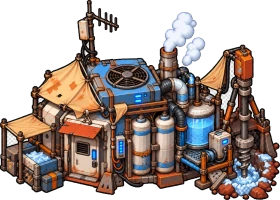
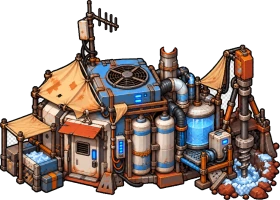
POC: animated steam on oxygen buildings; colonists use the door
- process-buildings.cjs: 'steam' strips the baked-in white smoke (and
  its outline) from a region of the sprite; 'vent' records the chimney
  mouth in meta.json. Applied to the oxygen scrubber and electrolyzer
- Painted buildings puff soft round steam from the vent (grows and fades
  as it rises) instead of square pixel smoke
- Colonists walk to the lounge / hab pod door before fading in or out;
  after dinner they reappear at the door and walk out to chat

Claude-Session: https://claude.ai/code/session_01E6DFL9GjyazsKRWf9Q9tqJ

Changed region(s): [[0.5714, 0.06, 0.7429, 0.33]]

diff --git a/src/art/art.js b/src/art/art.js
@@ -1263,7 +1263,8 @@ async function loadPainted() {
     const cv = makeCanvas(img.width, img.height); cv.getContext('2d').drawImage(img, 0, 0);
     const emissive = emissiveCanvas(cv), halo = haloCanvas(emissive, HALO_PAD * res, 3 * res);
     const glows = (PAINTED_FX[id] ?? []).map(([fx, fy, r, c, a]) => ({ x: fx * m.w - m.ax, y: fy * m.h - m.ay, r, c, a }));
-    const smokes = (PAINTED_STEAM[id] ?? []).map(([fx, fy]) => ({ x: fx * m.w - m.ax, y: fy * m.h - m.ay, c: 0xeef2f6 }));
+    // 蒸氣出口：手寫的 PAINTED_STEAM，或處理圖時從畫死的白煙位置算出來的（meta.steam）
+    const smokes = [...(PAINTED_STEAM[id] ?? []), ...(m.steam ? [m.steam] : [])].map(([fx, fy]) => ({ x: fx * m.w - m.ax, y: fy * m.h - m.ay, c: 0xeef2f6 }));
     PAINTED.set(id, { canvas: cv, ax: m.ax, ay: m.ay, w: m.w, h: m.h, res, glows, beacons: [], smokes, emissive, halo });
   }));
 }
@@ -1933,6 +1934,16 @@ function dotTexture() {
   const cv = makeCanvas(1, 1); const g = cv.getContext('2d'); g.fillStyle = '#fff'; g.fillRect(0, 0, 1, 1);
   return (_dotTex = pixelTexture(cv));
 }
+/** 手繪建築的蒸氣：柔邊的白色圓團（16×16，放射漸層） */
+let _puffTex = null;
+function puffTexture() {
+  if (_puffTex) return _puffTex;
+  const cv = makeCanvas(16, 16), g = cv.getContext('2d'), gr = g.createRadialGradient(8, 8, 1, 8, 8, 8);
+  gr.addColorStop(0, 'rgba(255,255,255,0.95)'); gr.addColorStop(0.55, 'rgba(255,255,255,0.7)'); gr.addColorStop(1, 'rgba(255,255,255,0)');
+  g.fillStyle = gr; g.fillRect(0, 0, 16, 16);
+  _puffTex = Texture.from(cv); _puffTex.source.scaleMode = 'linear';
+  return _puffTex;
+}
 function smokeTexture() {
   if (_smokeTex) return _smokeTex;
   const b = new Pix(5, 5, 2, 2); b.ell(0, 0, 2, 2, 0xd8d8d8); b.set(-1, -1, 0xffffff); b.set(1, 1, 0xa8a8a8);
@@ -1982,15 +1993,18 @@ function fromArt(art) {
     if (art.smokes.length && acc > 0.45) {
       acc = 0;
       for (const e of art.smokes) {
-        const p = new Sprite(smokeTexture()); p.anchor.set(0.5); p.tint = e.c; p.position.set(e.x, e.y); p.alpha = 0.7;
-        smokeL.addChild(p); puffs.push({ p, life: 0, vx: 2 + Math.random() * 3 });
+        const soft = res > 1;   // 手繪建築用柔邊圓團，程式畫的建築維持像素方塊
+        const p = new Sprite(soft ? puffTexture() : smokeTexture()); p.anchor.set(0.5); p.tint = e.c; p.position.set(e.x + (soft ? (Math.random() - 0.5) * 2 : 0), e.y); p.alpha = soft ? 0.9 : 0.7;
+        smokeL.addChild(p); puffs.push({ p, life: 0, vx: 2 + Math.random() * 3, soft });
       }
     }
     for (let i = puffs.length - 1; i >= 0; i--) {
       const q = puffs[i]; q.life += dt;
       q.p.y -= 7 * dt; q.p.x += q.vx * dt;
-      q.p.scale.set(q.life < 1.2 ? 1 : 2);
-      q.p.alpha = Math.max(0, 0.7 - q.life * 0.28);
+      // 柔邊蒸氣：一邊上升一邊慢慢變大變淡（直徑約 4 → 12 像素）；方塊煙維持原本兩段大小
+      if (q.soft) q.p.scale.set(0.25 + q.life * 0.22);
+      else q.p.scale.set(q.life < 1.2 ? 1 : 2);
+      q.p.alpha = Math.max(0, (q.soft ? 0.9 : 0.7) - q.life * (q.soft ? 0.34 : 0.28));
       if (q.life > 2.5) { q.p.destroy(); puffs.splice(i, 1); }
     }
   };

diff --git a/src/scene/GameScene.ts b/src/scene/GameScene.ts
@@ -1038,9 +1038,12 @@ export class GameScene {
     if (a.off !== kind) {
       a.off = kind; a.offAt = this.offDutySpot(kind); a.meal = undefined; a.chatting = false; a.inside = 0;
       const j = () => (Math.random() - 0.5) * 16;
-      // 傍晚在休閒艙前散開成幾小群（寬約 70、深約 18 像素），晚上擠在門口
-      a.offAt = kind === 'evening' ? { x: a.offAt.x + (Math.random() - 0.5) * 70, y: a.offAt.y + Math.random() * 18 } : { x: a.offAt.x + j(), y: a.offAt.y + Math.abs(j()) * 0.2 };
-      a.offPath = pathBetween({ x: w.px, y: w.py }, a.offAt).slice(1);
+      // 門口：建築正面底邊中央（休閒艙吃飯、生活艙睡覺都從這裡進出）
+      a.door = { x: a.offAt.x + j() * 0.15, y: a.offAt.y - 10 };
+      // 傍晚吃完飯在休閒艙前散開成幾小群（寬約 70、深約 18 像素）
+      a.offAt = kind === 'evening' ? { x: a.offAt.x + (Math.random() - 0.5) * 70, y: a.offAt.y + Math.random() * 18 } : a.door;
+      a.offPath = pathBetween({ x: w.px, y: w.py }, a.door).slice(1);
+      a.offPath.push(a.door);
       a.working = false; w.setWork?.(false); w.setCarry(null);
       w.visible = true; w.alpha = 1;
     }
@@ -1057,10 +1060,11 @@ export class GameScene {
       w.setMoving(false);
       a.meal ??= 8 + Math.random() * 6;
       if (a.meal > 0) {
+        // 在門口淡出進去吃飯；吃完在門口淡入，再走到門前空地聊天
         a.meal -= dt;
         w.alpha = a.meal > 0.3 ? Math.max(0, w.alpha - dt * 3) : Math.min(1, w.alpha + dt * 3);
         w.visible = w.alpha > 0.01 || a.meal <= 0.3;
-        if (a.meal <= 0) { w.alpha = 1; w.visible = true; }
+        if (a.meal <= 0) { w.alpha = 1; w.visible = true; a.offPath = [a.offAt]; a.offWait = 2 + Math.random() * 3; }
         return;
       }
       a.chatting = true;
